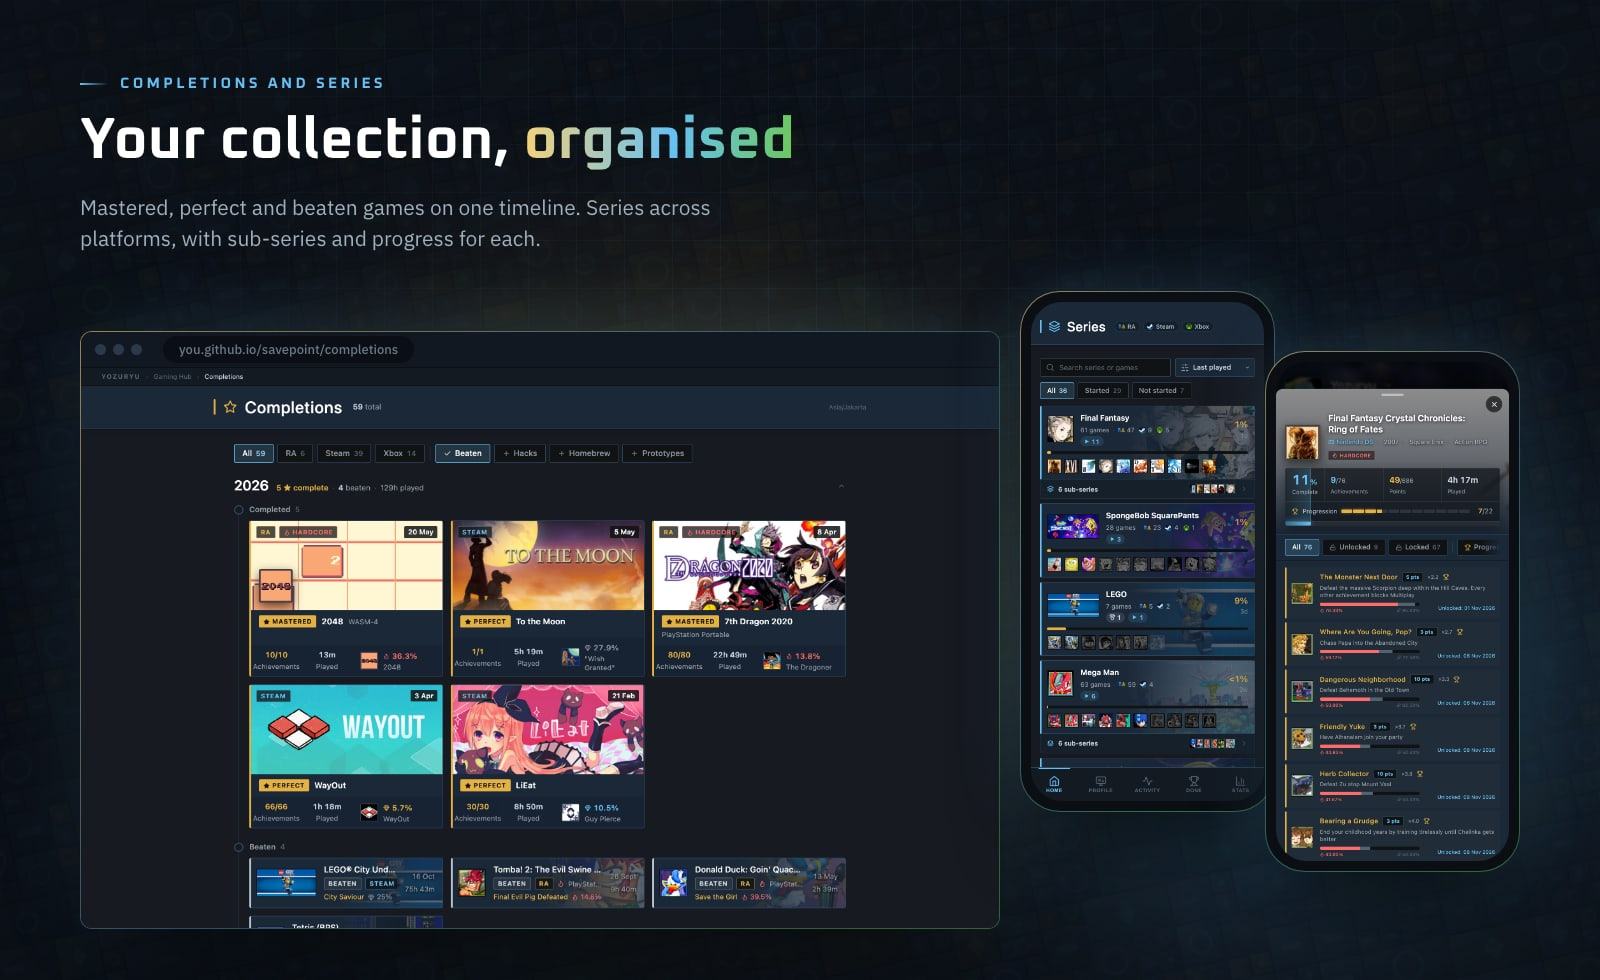
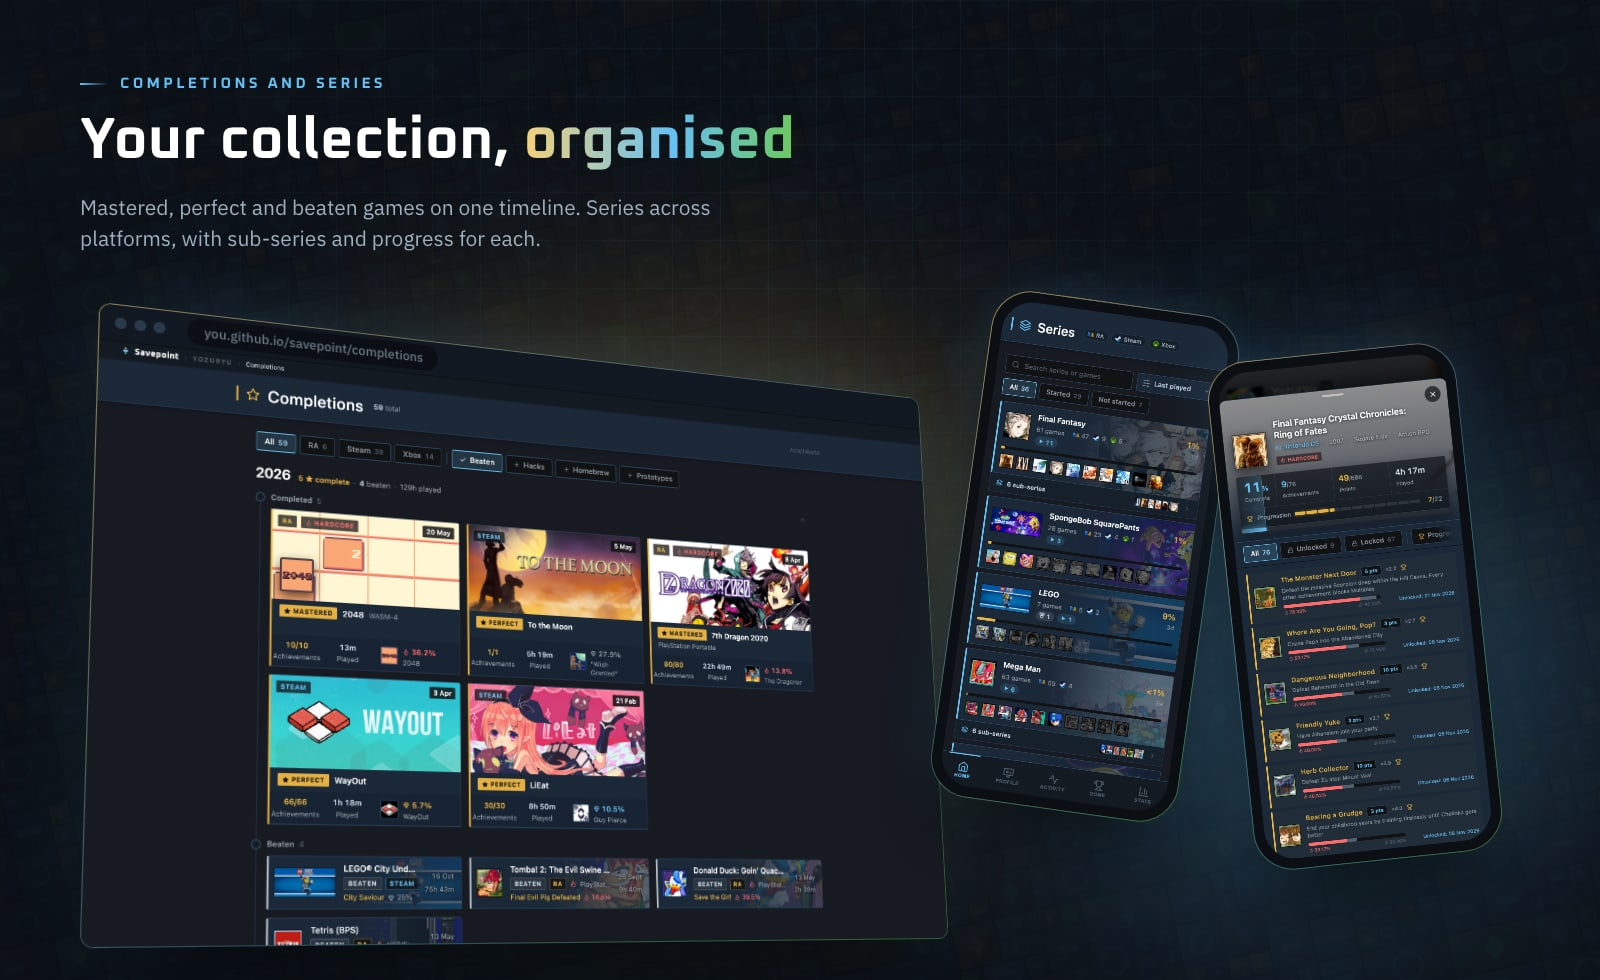
style: Savepoint wordmark first in the top bar; posters re-shot
The desktop top bar now reads Savepoint (Oxanium, loaded by mobile-nav.js) › owner › page.
README posters re-shot from this code on real data, screens tilted and layered.

Claude-Session: https://claude.ai/code/session_01EeEDGztHg726FM19DkBxwu

Changed region(s): [[0.0312, 0.2755, 0.9688, 0.9796], [0.5, 0.4592, 0.5312, 0.4898]]

diff --git a/series/app.js b/series/app.js
@@ -384,9 +384,9 @@ const App = () => {
     return (
         <div className="bg-[#171a21] text-[#c6d4df] min-h-screen flex flex-col font-sans selection:bg-[#66c0f4] selection:text-[#171a21]">
             <div className="page-topbar sticky top-0 z-50 bg-[#131a22] border-b border-[#101214] px-4 md:px-8 py-1.5 flex items-center gap-2 text-[10px]">
-                <a href="../" data-site-user="" className="text-[#546270] font-bold tracking-[0.15em] uppercase hover:text-[#8f98a0] transition-colors"></a>
+                <a href="../" className="sp-brand"><img src="../assets/favicon.svg" alt="" />Savepoint</a>
                 <span className="text-[#2a475e]">›</span>
-                <a href="../" className="text-[#546270] hover:text-[#8f98a0] transition-colors">Savepoint</a>
+                <a href="../" data-site-user="" className="text-[#546270] font-bold tracking-[0.15em] uppercase hover:text-[#8f98a0] transition-colors"></a>
                 <span className="text-[#2a475e]">›</span>
                 <span className="text-[#c6d4df]">Series</span>
             </div>

diff --git a/assets/mobile-nav.js b/assets/mobile-nav.js
@@ -119,10 +119,19 @@
     },
   ];
 
+  // The wordmark font of the top bar (.sp-brand), loaded once for every page
+  const font = document.createElement('link');
+  font.rel = 'stylesheet';
+  font.href = 'https://fonts.googleapis.com/css2?family=Oxanium:wght@700&display=swap';
+  document.head.appendChild(font);
+
   // ── CSS ────────────────────────────────────────────────────────────────────
   const style = document.createElement('style');
   style.textContent = `
     [data-site-user]::before { content: var(--site-user, "Savepoint"); }
+    .sp-brand { display: inline-flex; align-items: center; gap: 6px; font: 700 13px/1 Oxanium, 'Segoe UI', Arial, sans-serif; letter-spacing: .04em; color: #fff; text-transform: none; }
+    .sp-brand:hover { color: #fff; }
+    .sp-brand img { width: 15px; height: 15px; }
     .mnav {
       display: none;
       position: fixed;

diff --git a/profile/steam/app.js b/profile/steam/app.js
@@ -1296,9 +1296,9 @@ const App = () => {
 
             {/* Topbar */}
             <div className="page-topbar sticky top-0 z-50 bg-[#131a22] border-b border-[#101214] px-4 md:px-8 py-1.5 flex items-center gap-2 text-[10px]">
-                <a href="../../" data-site-user="" className="text-[#546270] font-bold tracking-[0.15em] uppercase hover:text-[#8f98a0] transition-colors"></a>
+                <a href="../../" className="sp-brand"><img src="../../assets/favicon.svg" alt="" />Savepoint</a>
                 <span className="text-[#2a475e]">›</span>
-                <a href="../../" className="text-[#546270] hover:text-[#8f98a0] transition-colors">Savepoint</a>
+                <a href="../../" data-site-user="" className="text-[#546270] font-bold tracking-[0.15em] uppercase hover:text-[#8f98a0] transition-colors"></a>
                 <span className="text-[#2a475e]">›</span>
                 <span className="text-[#c6d4df]">Steam</span>
             </div>

diff --git a/profile/xbox/app.js b/profile/xbox/app.js
@@ -1266,9 +1266,9 @@ const App = () => {
 
             {/* Topbar */}
             <div className="page-topbar sticky top-0 z-50 bg-[#131a22] border-b border-[#101214] px-4 md:px-8 py-1.5 flex items-center gap-2 text-[10px]">
-                <a href="../../" data-site-user="" className="text-[#546270] font-bold tracking-[0.15em] uppercase hover:text-[#8f98a0] transition-colors"></a>
+                <a href="../../" className="sp-brand"><img src="../../assets/favicon.svg" alt="" />Savepoint</a>
                 <span className="text-[#2a475e]">›</span>
-                <a href="../../" className="text-[#546270] hover:text-[#8f98a0] transition-colors">Savepoint</a>
+                <a href="../../" data-site-user="" className="text-[#546270] font-bold tracking-[0.15em] uppercase hover:text-[#8f98a0] transition-colors"></a>
                 <span className="text-[#2a475e]">›</span>
                 <span className="text-[#c6d4df]">Xbox</span>
             </div>

diff --git a/analytics/app.js b/analytics/app.js
@@ -1489,9 +1489,9 @@ const App = () => {
 
             {/* Topbar */}
             <div className="page-topbar sticky top-0 z-50 bg-[#131a22] border-b border-[#101214] px-4 md:px-8 py-1.5 flex items-center gap-2 text-[10px]">
-                <a href="../" data-site-user="" className="text-[#546270] font-bold tracking-[0.15em] uppercase hover:text-[#8f98a0] transition-colors"></a>
+                <a href="../" className="sp-brand"><img src="../assets/favicon.svg" alt="" />Savepoint</a>
                 <span className="text-[#2a475e]">›</span>
-                <a href="../" className="text-[#546270] hover:text-[#8f98a0] transition-colors">Savepoint</a>
+                <a href="../" data-site-user="" className="text-[#546270] font-bold tracking-[0.15em] uppercase hover:text-[#8f98a0] transition-colors"></a>
                 <span className="text-[#2a475e]">›</span>
                 <span className="text-[#c6d4df]">Analytics</span>
             </div>

diff --git a/completions/app.js b/completions/app.js
@@ -652,9 +652,9 @@ const App = () => {
 
             {/* Topbar */}
             <div className="page-topbar sticky top-0 z-50 bg-[#131a22] border-b border-[#101214] px-4 md:px-8 py-1.5 flex items-center gap-2 text-[10px]">
-                <a href="../" data-site-user="" className="text-[#546270] font-bold tracking-[0.15em] uppercase hover:text-[#8f98a0] transition-colors"></a>
+                <a href="../" className="sp-brand"><img src="../assets/favicon.svg" alt="" />Savepoint</a>
                 <span className="text-[#2a475e]">›</span>
-                <a href="../" className="text-[#546270] hover:text-[#8f98a0] transition-colors">Savepoint</a>
+                <a href="../" data-site-user="" className="text-[#546270] font-bold tracking-[0.15em] uppercase hover:text-[#8f98a0] transition-colors"></a>
                 <span className="text-[#2a475e]">›</span>
                 <span className="text-[#c6d4df]">Completions</span>
             </div>

diff --git a/activity/app.js b/activity/app.js
@@ -1069,9 +1069,9 @@ const App = () => {
 
             {/* Topbar */}
             <div className="page-topbar sticky top-0 z-50 bg-[#131a22] border-b border-[#101214] px-4 md:px-8 py-1.5 flex items-center gap-2 text-[10px]">
-                <a href="../" data-site-user="" className="text-[#546270] font-bold tracking-[0.15em] uppercase hover:text-[#8f98a0] transition-colors"></a>
+                <a href="../" className="sp-brand"><img src="../assets/favicon.svg" alt="" />Savepoint</a>
                 <span className="text-[#2a475e]">›</span>
-                <a href="../" className="text-[#546270] hover:text-[#8f98a0] transition-colors">Savepoint</a>
+                <a href="../" data-site-user="" className="text-[#546270] font-bold tracking-[0.15em] uppercase hover:text-[#8f98a0] transition-colors"></a>
                 <span className="text-[#2a475e]">›</span>
                 <span className="text-[#c6d4df]">Activity</span>
             </div>

diff --git a/changelog/app.js b/changelog/app.js
@@ -274,9 +274,9 @@ const App = () => {
 
             {/* Topbar */}
             <div className="page-topbar sticky top-0 z-50 bg-[#131a22] border-b border-[#101214] px-4 md:px-8 py-1.5 flex items-center gap-2 text-[10px]">
-                <a href="../" data-site-user="" className="text-[#546270] font-bold tracking-[0.15em] uppercase hover:text-[#8f98a0] transition-colors"></a>
+                <a href="../" className="sp-brand"><img src="../assets/favicon.svg" alt="" />Savepoint</a>
                 <span className="text-[#2a475e]">›</span>
-                <a href="../" className="text-[#546270] hover:text-[#8f98a0] transition-colors">Savepoint</a>
+                <a href="../" data-site-user="" className="text-[#546270] font-bold tracking-[0.15em] uppercase hover:text-[#8f98a0] transition-colors"></a>
                 <span className="text-[#2a475e]">›</span>
                 <span className="text-[#c6d4df]">Changelog</span>
             </div>

diff --git a/profile/ra/app.js b/profile/ra/app.js
@@ -1445,9 +1445,9 @@ export default function App() {
       
       {/* Topbar */}
       <div className="page-topbar sticky top-0 z-50 bg-[#131a22] border-b border-[#101214] px-4 md:px-8 py-1.5 flex items-center gap-2 text-[10px]">
-        <a href="../../" data-site-user="" className="text-[#546270] font-bold tracking-[0.15em] uppercase hover:text-[#8f98a0] transition-colors"></a>
+        <a href="../../" className="sp-brand"><img src="../../assets/favicon.svg" alt="" />Savepoint</a>
         <span className="text-[#2a475e]">›</span>
-        <a href="../../" className="text-[#546270] hover:text-[#8f98a0] transition-colors">Savepoint</a>
+        <a href="../../" data-site-user="" className="text-[#546270] font-bold tracking-[0.15em] uppercase hover:text-[#8f98a0] transition-colors"></a>
         <span className="text-[#2a475e]">›</span>
         <span className="text-[#c6d4df]">RetroAchievements</span>
       </div>

diff --git a/index.html b/index.html
@@ -225,9 +225,9 @@
 
   <!-- Topbar -->
   <div class="page-topbar sticky top-0 z-50 bg-[#131a22] border-b border-[#101214] px-4 md:px-8 py-1.5 flex items-center gap-2 text-[10px]">
-    <span id="topbar-username" class="text-[#546270] font-bold tracking-[0.15em] uppercase"></span>
+    <a href="./" class="sp-brand"><img src="./assets/favicon.svg" alt="" />Savepoint</a>
     <span class="text-[#2a475e]">›</span>
-    <span class="text-[#c6d4df]">Savepoint</span>
+    <span id="topbar-username" class="text-[#8f98a0] font-bold tracking-[0.15em] uppercase"></span>
   </div>
 
   <!-- Header -->

diff --git a/changelog.md b/changelog.md
@@ -9,3 +9,4 @@ Your Savepoint hub, ready to fill with your own games.
   The hub, a profile page per platform, Activity, Completions, Analytics, Series and this changelog, fed by your own data every hour.
 - new: **Admin panel** for series, art, config and data runs
   Runs on your computer with `npm run admin`; never deployed.
+- new: **Top bar** starts with the Savepoint wordmark, then your name
